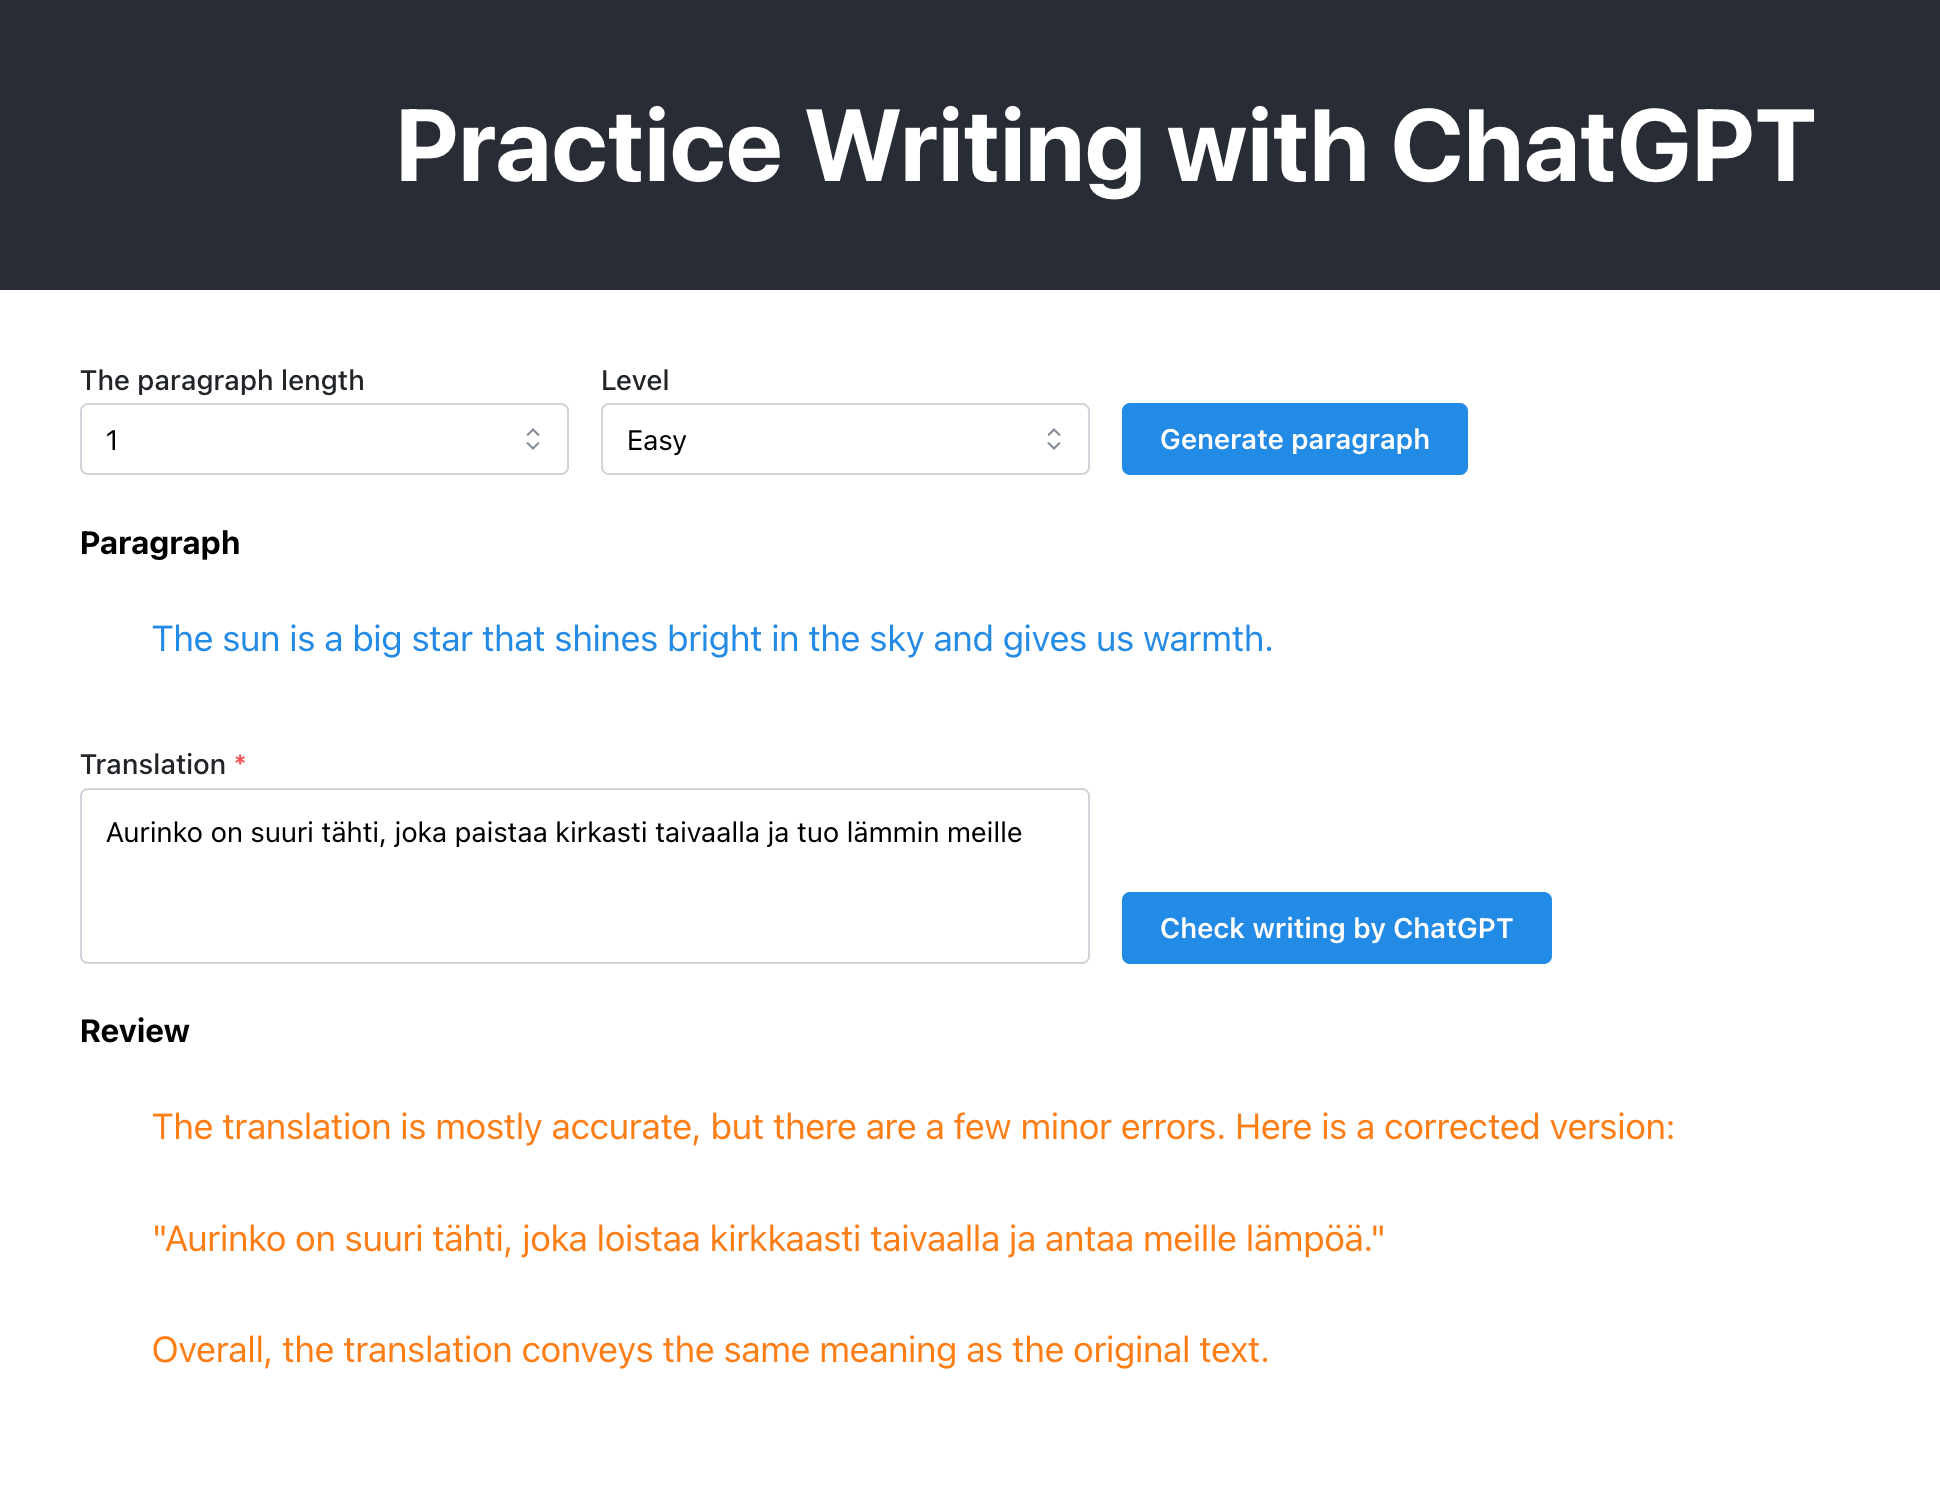
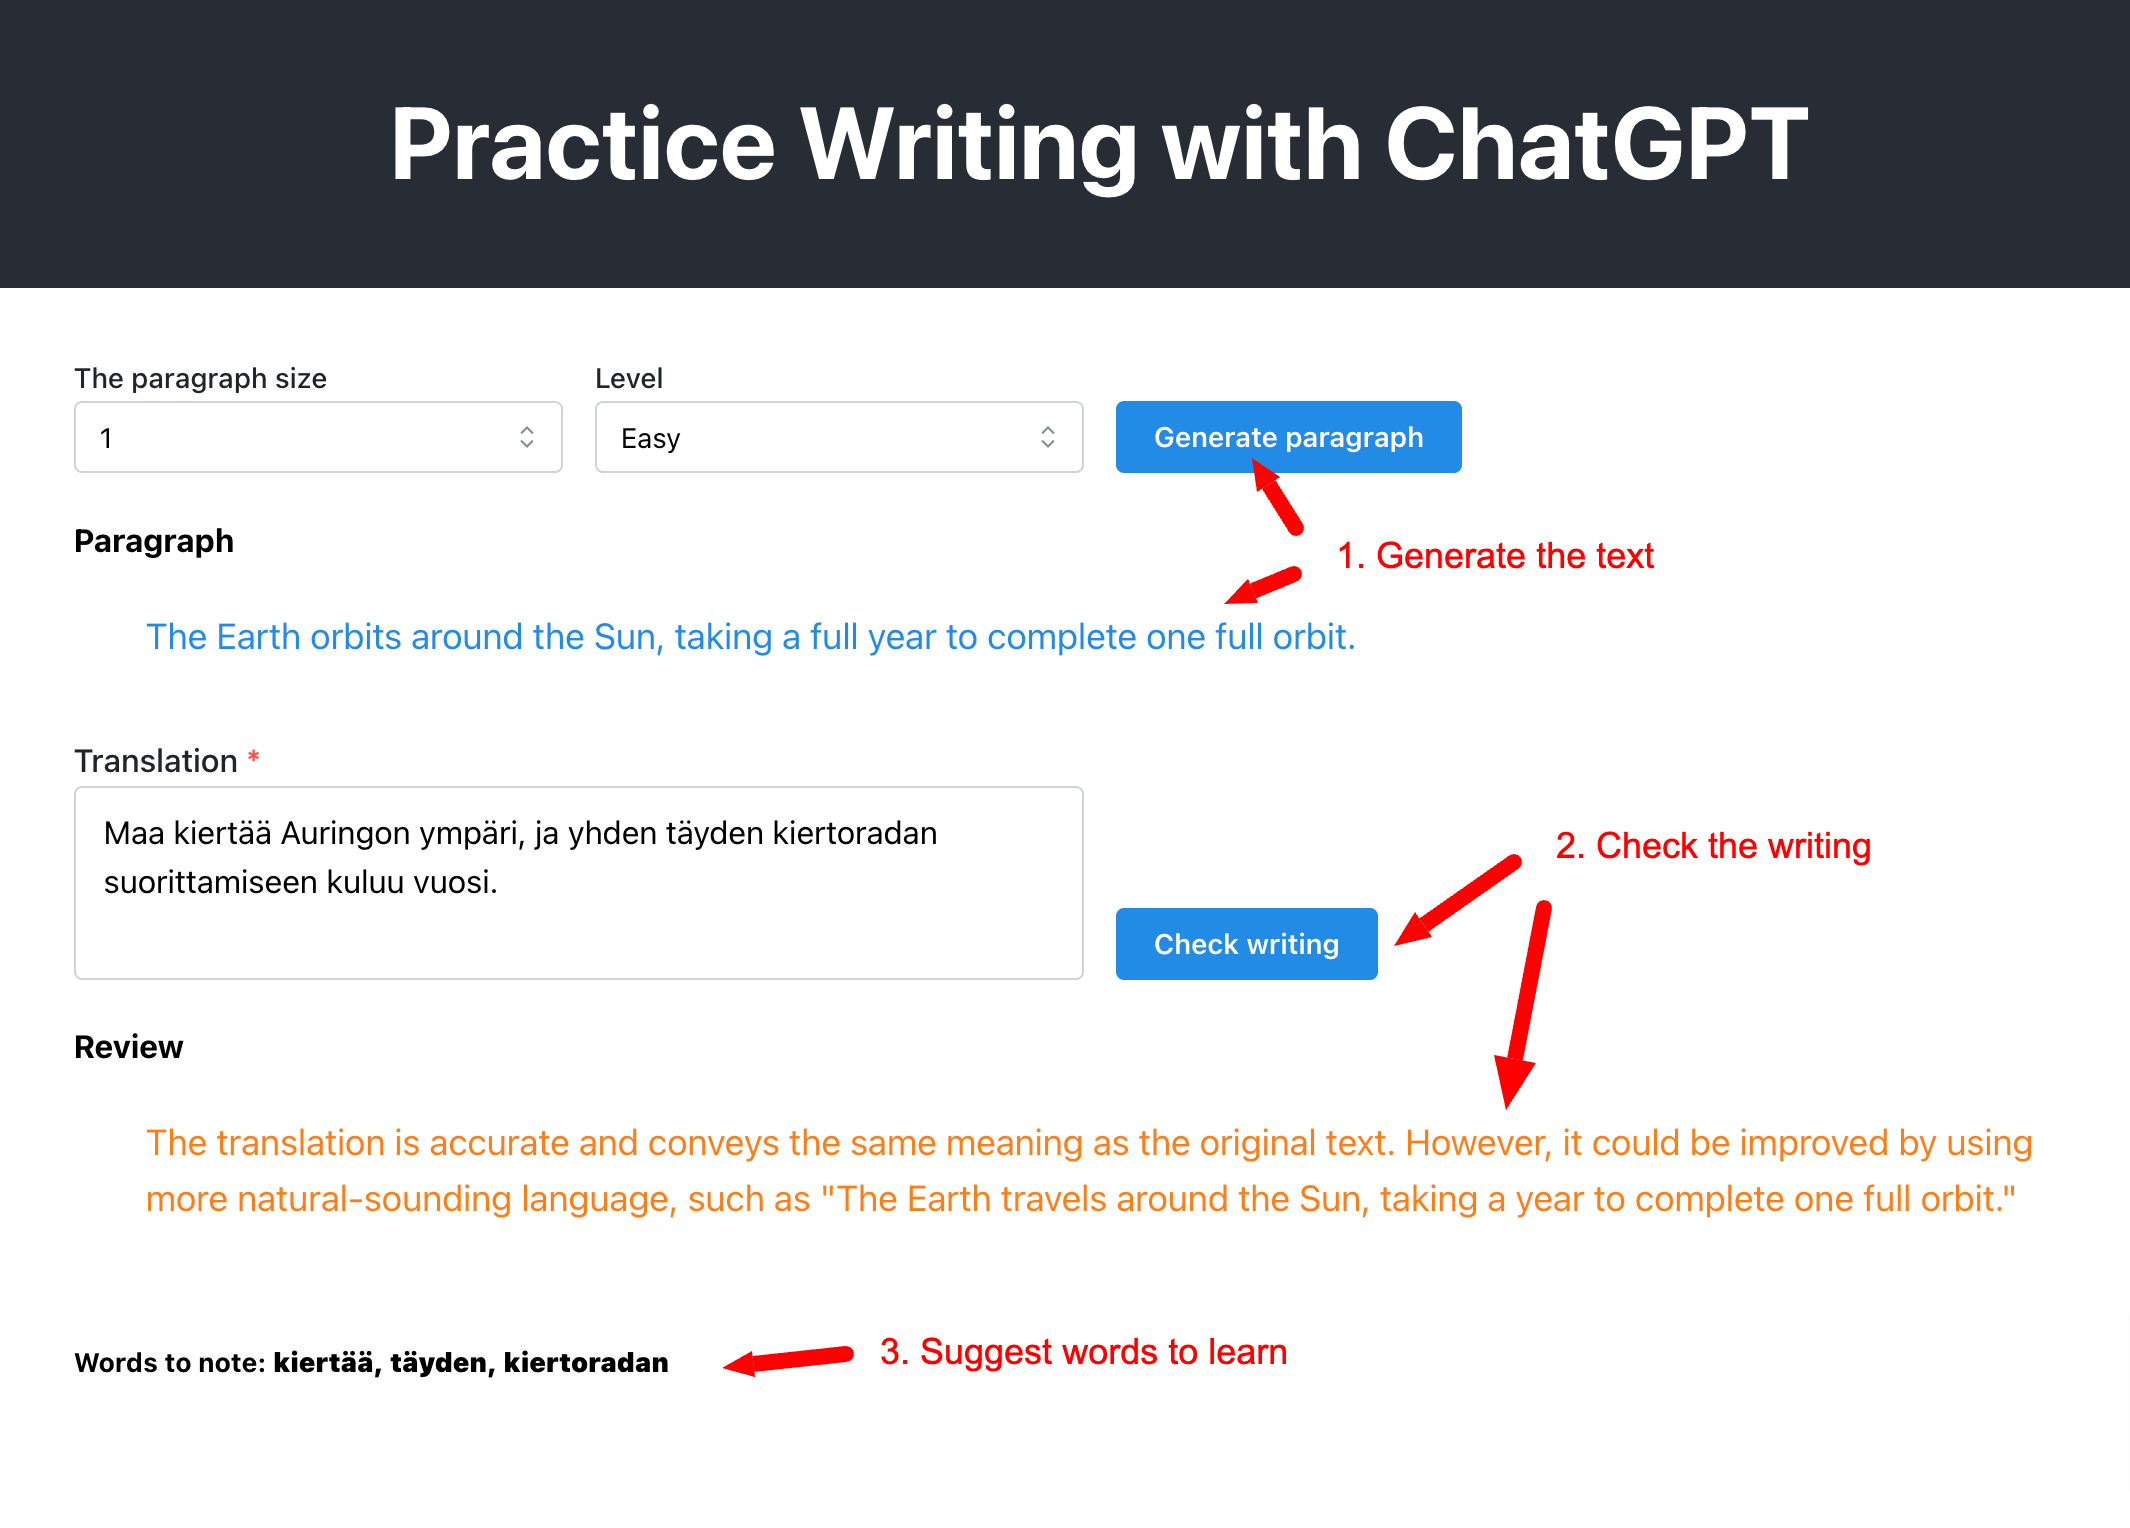
Added the words generation

diff --git a/src/App.js b/src/App.js
@@ -36,6 +36,7 @@ function App() {
   const [paragraph, setParagraph] = useState("");
   const [review, setReview] = useState("");
   const [writing, setWriting] = useState("");
+  const [words, setWords] = useState([]);
 
   const [practiseLoading, setPractiseLoading] = useState(false);
   const [reviewLoading, setReviewLoading] = useState(false);
@@ -80,6 +81,18 @@ function App() {
     );
 
     setReview(content);
+
+    const json = await queryChatGPT(
+      `Pick up 3 new words in the writing or the correct and output them as an array with key "word" in JSON format:
+      "${writing}"`,
+      {
+        temperature: 1, // we want the text to be most randomized
+      }
+    );
+
+    const words = JSON.parse(json);
+
+    setWords(words.map((w) => w.word));
     setReviewLoading(false);
   };
 
@@ -137,7 +150,7 @@ function App() {
 
               <div className="buttons">
                 <Button onClick={onReview} loading={reviewLoading}>
-                  Check writing by ChatGPT
+                  Check writing
                 </Button>
               </div>
             </SimpleGrid>
@@ -156,6 +169,12 @@ function App() {
                 </span>
               ))}
             </Text>
+
+            {words.length > 0 && (
+              <h5>
+                Words to note: <b>{words.join(", ")}</b>
+              </h5>
+            )}
           </>
         )}
       </div>

diff --git a/blog.md b/blog.md
@@ -4,7 +4,9 @@ I think writing is the best method to learn a new language. I usually want to ha
 
 ## About the App
 
-Our app would be simple. There is only one page and the user is asked to input the paragraph size (number of sentences) and the difficulty level (easy, medium and hard) and generate a paragraph to practice writing. After the writing is done, users can select to check if the writing is correct and possibly provide a corrections.
+Our app would be simple. There is only one page and the user is asked to input the paragraph size (number of sentences) and the difficulty level (easy, medium and hard) and generate a paragraph to practice writing. After the writing is done, users can select to check if the writing is correct and possibly provide a corrections. Finally, we want to have some new words to study in the text.
+
+![App screenshot](./docs/app-screenshot.png)
 
 The app is built using React and OpenAI API for Javascript for simplicity and the main focus is more to show how to build a Web app that interacts with ChatGPT to develop meaningful applications with the power of AI. The article assumes that you already knew about React and Web development, so all trivial tasks such as creating components in React are not mentioned.
 
@@ -114,7 +116,7 @@ Next is the handler when press on the button,
 ```js
 const response = await openai.createChatCompletion({
   model: "gpt-3.5-turbo",
-  temperature: 0,
+  temperature: 0, // we want the text to be consistent
   messages: [
     {
       role: "user",
@@ -130,16 +132,38 @@ const response = await openai.createChatCompletion({
 
 In this OpenAI call, the temperatur is set to zero since we want the result or the review to be consistent all the time. In this prompt, we injected our writing work and also the previous paragraph into the message. And that's it, that is how we can utilize the power of ChatGPT to create helpful applications. It is more in how we know to write the right prompt so that ChatGPT can work most effective. Of course, there are a lot of more to learn (see the course above) in various tasks for ChatGPT.
 
+## The new words
+
+In the last part, we want to ask ChatGPT to pick up 3 random words from the writing and send us the completion in the JSON format. This task is more to show the capabilities in the prompt that ChatGPT can do. Here is the prompt,
+
+```js
+const response = await openai.createChatCompletion({
+  model: "gpt-3.5-turbo",
+  temperature: 1, // we want the text to be most randomized
+  messages: [
+    {
+      role: "user",
+      content: `Pick up 3 new words in the writing or the correct and output them as an array with key "word" in JSON format:
+      "${writing}"`,
+    },
+  ],
+});
+```
+
+The interesting in this prompt is we can instruct ChatGPT to output the result in the JSON format and we can even specify the key for each item. So here is an example of the output
+
+```json
+[{ "word": "word1" }, { "word": "word2" }, { "word": "word3" }]
+```
+
+After getting the result, we can parse it in JSON and extract the new words.
+
 ## To wrap up
 
-The app in my opinion is very useful in everyday work to help me learning new language. Even though the technical part in the app is very simple but it demonstrates one point, which is how easy nowadays to create a smart and helpful applications for daily life by utilizing the ChatGPT. Beside the model used in this app, there are a lot of models and different completions or cases (ImageCompletion) to try out for various purposes. The creativity is endless.
+The app in my opinion is very useful in everyday work to help me learning new language. Even though the technical part in the app is very simple but it demonstrates one point, which is how easy nowadays to create a smart, interesting and helpful applications for daily life by utilizing the ChatGPT. Beside the model used in this app, there are a lot of models and different completions or cases (ImageCompletion) to try out for various purposes. The creativity is endless.
 
-## Source code & screenshots
+## Source code
 
 Here is the source code for working app
 
 https://github.com/pholeth/gpt-writing
-
-And the screenshots of the working app
-
-![App screenshot](./docs/app-screenshot.png)
